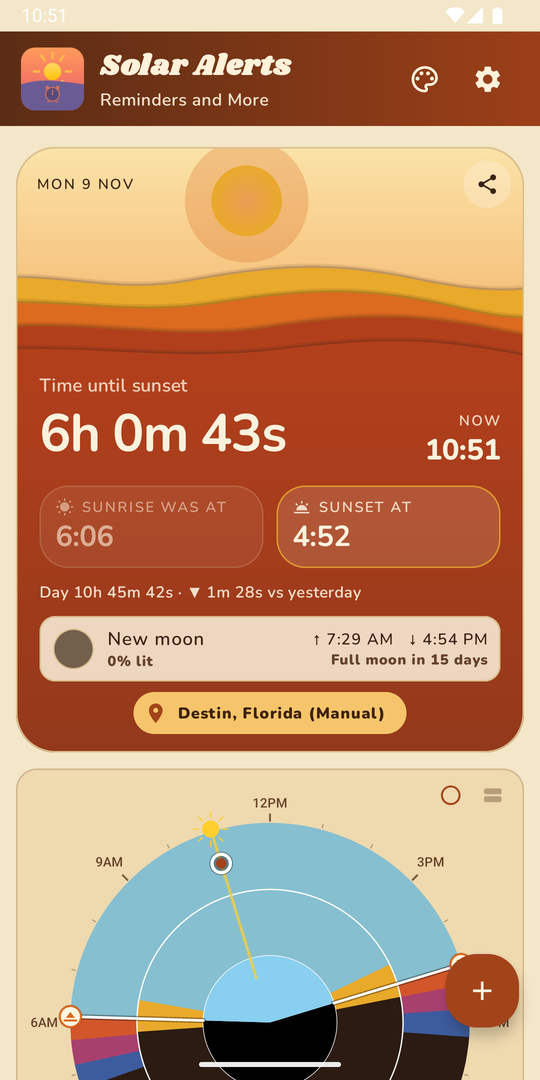
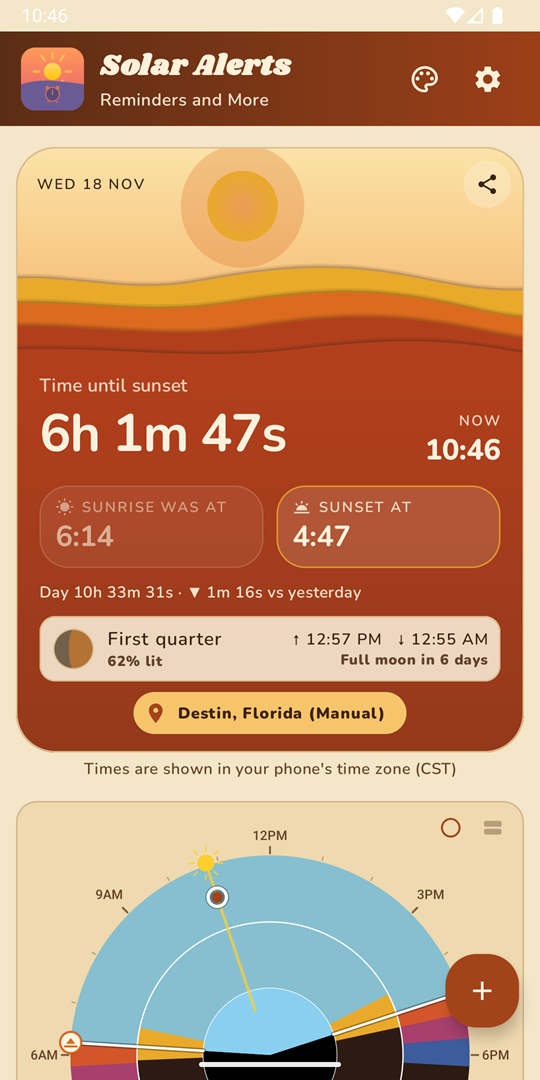
site: align with Solar Alerts 1.2.81 — rate & share, time zone note, What's New formatting
Claude-Session: https://claude.ai/code/session_017WtmsgmaDhs82Dazu1zUfu

diff --git a/index.html b/index.html
@@ -105,7 +105,7 @@
 </ul>
 </article>
 </div>
-<p class="also">Also: <a href="#themes">six themes</a> (Solar Classic, Kodachrome &rsquo;70s, Ukiyo-e Woodblock, Mission Control, Observatory Brass and Riso Almanac), each with a day and a night look, plus countdown card layouts from Sun Arc to Departure Board that you can preview live before saving; the cards that draw the sun open with a quick sky timelapse from the last sunrise or sunset to now. And 12-hour or 24-hour time, share today's sunset time with friends, and built-in help for every setting.</p>
+<p class="also">Also: <a href="#themes">six themes</a> (Solar Classic, Kodachrome &rsquo;70s, Ukiyo-e Woodblock, Mission Control, Observatory Brass and Riso Almanac), each with a day and a night look, plus countdown card layouts from Sun Arc to Departure Board that you can preview live before saving; the cards that draw the sun open with a quick sky timelapse from the last sunrise or sunset to now. And 12-hour or 24-hour time, share today's sunset time with friends, rate or share the app from the top of Settings, and built-in help for every setting.</p>
 </div>
 </section>
 
@@ -122,6 +122,7 @@
 </ul>
 <ul class="ticks">
 <li>Uses your GPS location, or enter a place manually</li>
+<li>For a place you picked by hand, times are shown in your phone's time zone, and the app says so</li>
 <li>Follow Me mode keeps times accurate as you travel</li>
 <li>Adjusts automatically for daylight saving time</li>
 </ul>
@@ -162,10 +163,19 @@
 <section class="section flush" id="whats-new" aria-labelledby="new-h">
 <div class="wrap">
 <span class="kicker">Release notes</span>
-<h2 id="new-h">What's new in 1.2.80</h2>
+<h2 id="new-h">What's new in 1.2.81</h2>
 <div class="releases">
 <article class="release latest">
-<header><h3>1.2.80</h3><span class="badge">Latest</span><time datetime="2026-11-11">November 11, 2026</time></header>
+<header><h3>1.2.81</h3><span class="badge">Latest</span><time datetime="2026-11-18">November 18, 2026</time></header>
+<ul class="ticks">
+<li><b>Rate this app:</b> Settings now starts with a Rate &amp; Share section. Tap Rate This App to leave a rating or review on Google Play, or Share This App to send it to a friend.</li>
+<li><b>Time zone note:</b> when you pick a place by hand, the home screen and Settings now say that times are shown in your phone's time zone, so a far-away city's sunrise and sunset make sense.</li>
+<li><b>Fixed:</b> headings in What's New now show in bold instead of with stray symbols around them.</li>
+<li>Thank you to our closed-test testers, whose reports led to all three changes.</li>
+</ul>
+</article>
+<article class="release">
+<header><h3>1.2.80</h3><time datetime="2026-11-11">November 11, 2026</time></header>
 <ul class="ticks">
 <li><b>Drag to set the time:</b> in the alert editor, drag the pin on the sun picture (or tap the picture) to choose when you're alerted. It snaps to marks every 15 minutes, up to 3 hours before or after sunrise or sunset. Left of the sun is before, right is after, and on the sun is right at it.</li>
 <li><b>Custom time:</b> for any other time, tap the small Custom button in the corner of the sun picture, choose before or after, and set hours and minutes with &minus; and +.</li>

diff --git a/README.md b/README.md
@@ -33,9 +33,11 @@ Solar Alerts is an Android app (8.0 and newer) that reminds you before or after 
 - Six themes (Solar Classic, Kodachrome ’70s, Ukiyo-e Woodblock, Mission Control, Observatory Brass, Riso Almanac), each with a day and a night look
 - Countdown card layouts from Sun Arc to Departure Board, previewed live before you save
 - 12-hour or 24-hour time
+- Rate or share the app from the top of Settings
 
 **Wherever you are, privately**
 - Uses your GPS location, or enter a place manually
+- For a place you picked by hand, times are shown in your phone's time zone, and the app says so
 - Follow Me mode keeps times accurate as you travel
 - Adjusts automatically for daylight saving time
 - Your location never leaves your phone
